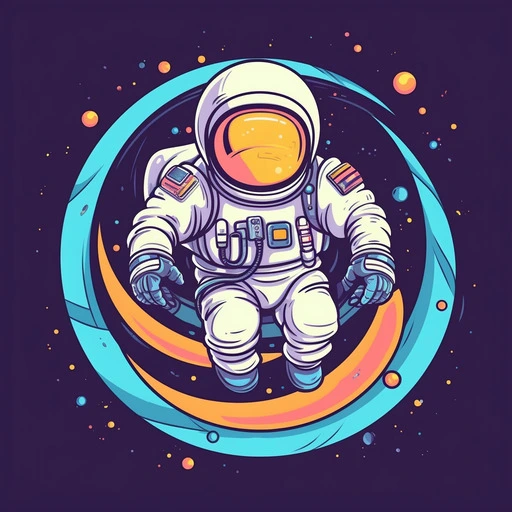
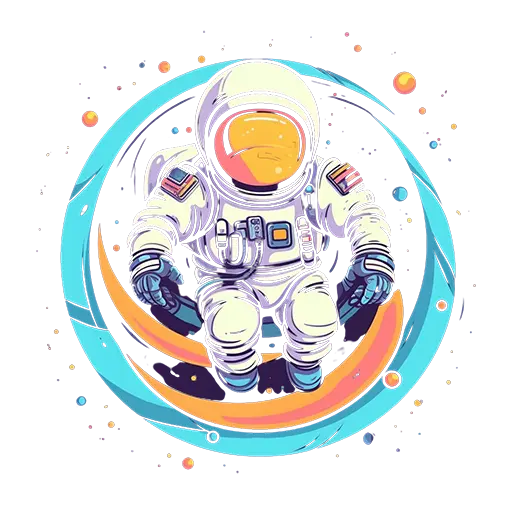
Modify astronaut image without background

diff --git a/index.html b/index.html
@@ -41,13 +41,13 @@
     <section class="block block--purple block--skewed-left hero">
         <div class="container grid grid--1x2">
             <header class="block__header hero__content">
-                <h1 data-aos="zoom-in-up"  class="block__heading">Hi! I'm Pau</h1>
+                <h1 data-aos="zoom-in-up"  class="block__heading">Hi! I'm Pau <span class="animated--dash">_</span></h1>
                 <p class="hero__tagline">Passionate software engineer, embracing coding and eager to <span class="item--bold">explore</span>. Curious, dedicated, and constantly seeking new opportunities for growth and learning.</p>
             </header>
             <picture data-aos="zoom-in-left">
                 <source type="image/webp" srcset="images/astronaut.webp 1x, images/astronaut@2x.webp 2x">
-                <source type="image/png" srcset="images/astronaut.jpg 1x, images/astronaut@2x.jpg 2x">
-                <img class="hero__image" src="images/astronaut.jpg" alt="">
+                <source type="image/png" srcset="images/astronaut.png 1x, images/astronaut@2x.png 2x">
+                <img class="hero__image" src="images/astronaut.png" alt="">
             </picture>
         </div>
     </section>

diff --git a/css/styles.css b/css/styles.css
@@ -66,6 +66,22 @@ p  {
     color: rgb(207, 207, 207);
 }
 
+.animated--dash {
+    animation: dash-animation 0.7s infinite;
+}
+
+@keyframes dash-animation {
+    0% {
+      opacity: 0;
+    }
+    50% {
+      opacity: 1;
+    }
+    100% {
+      opacity: 0;
+    }
+  }
+
 @media screen and (min-width: 1024px) {
     body {
         font-size: 1.8rem;
